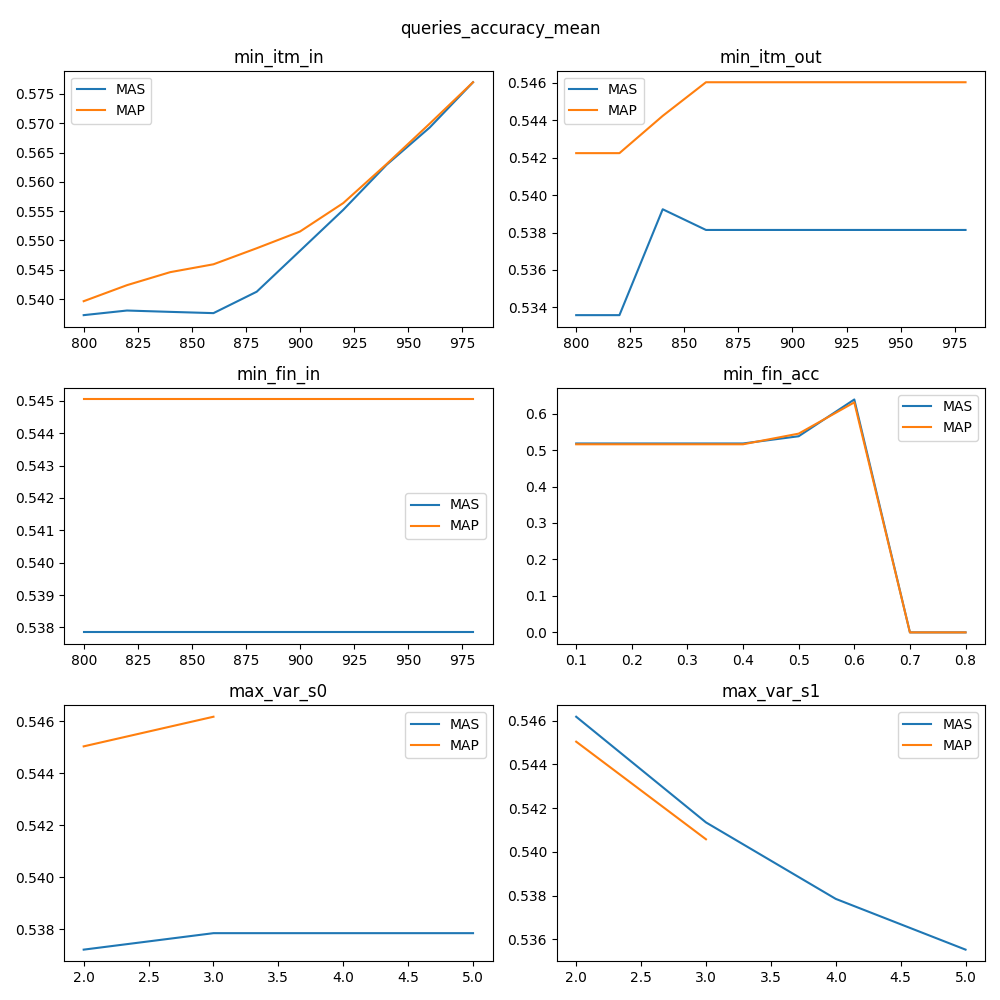
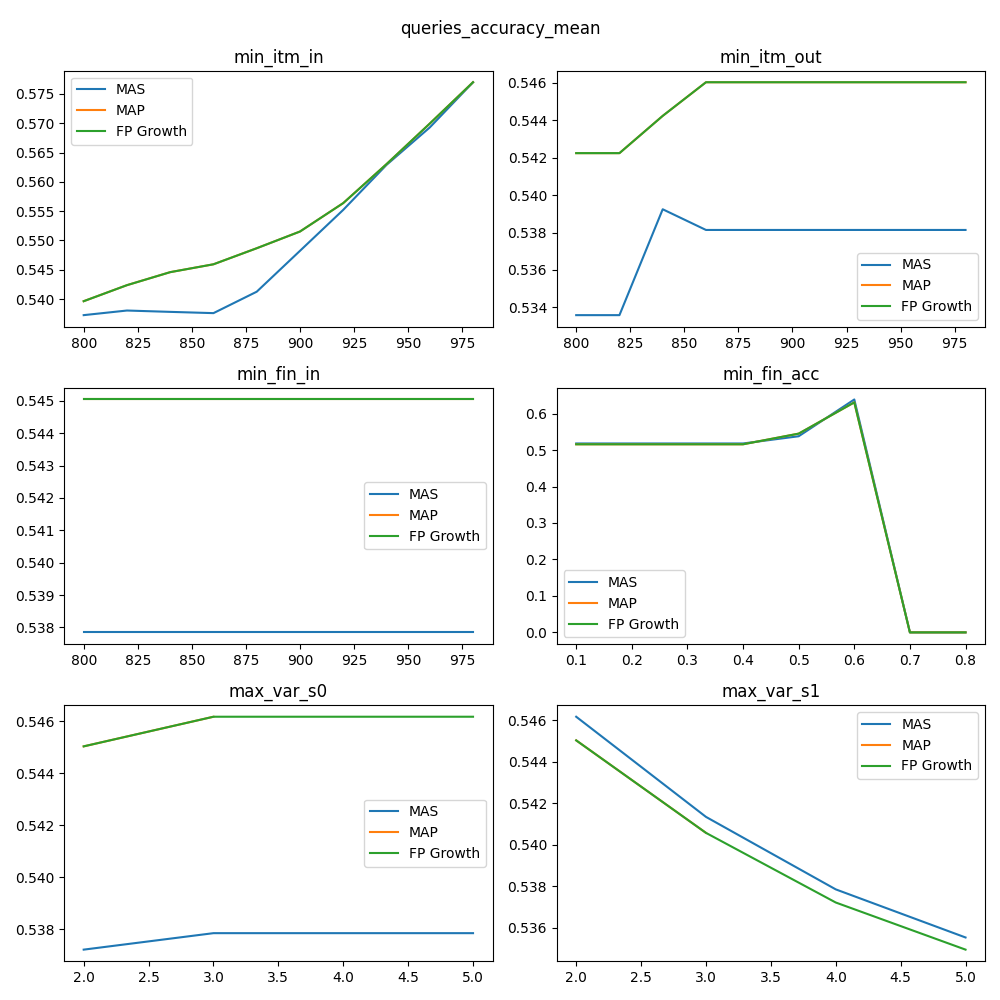
- Added FP-Growth data and plots

diff --git a/thesis-playground/plotting.py b/thesis-playground/plotting.py
@@ -26,23 +26,29 @@ def plot_group(target_metric):
     plt.suptitle(target_metric)
     plot_simple(min_itm_in_mas_data, 'min_itm_in', target_metric, axes[0][0], 'MAS')
     plot_simple(min_itm_in_map_data, 'min_itm_in', target_metric, axes[0][0], 'MAP')
+    plot_simple(min_itm_in_fp_growth_data, 'min_itm_in', target_metric, axes[0][0], 'FP Growth')
 
     plot_simple(min_itm_out_mas_data, 'min_itm_out', target_metric, axes[0][1], 'MAS')
     plot_simple(min_itm_out_map_data, 'min_itm_out', target_metric, axes[0][1], 'MAP')
+    plot_simple(min_itm_out_fp_growth_data, 'min_itm_out', target_metric, axes[0][1], 'FP Growth')
 
     plot_simple(min_fin_in_mas_data, 'min_fin_in', target_metric, axes[1][0], 'MAS')
     plot_simple(min_fin_in_map_data, 'min_fin_in', target_metric, axes[1][0], 'MAP')
+    plot_simple(min_fin_in_fp_growth_data, 'min_fin_in', target_metric, axes[1][0], 'FP Growth')
 
     # plot_simple(min_fin_out_mas_data, 'min_fin_out', target_metric, axes[1][1], 'MAS')
 
     plot_simple(min_fin_acc_mas_data, 'min_fin_acc', target_metric, axes[1][1], 'MAS')
     plot_simple(min_fin_acc_map_data, 'min_fin_acc', target_metric, axes[1][1], 'MAP')
+    plot_simple(min_fin_acc_fp_growth_data, 'min_fin_acc', target_metric, axes[1][1], 'FP Growth')
 
     plot_simple(max_var_s0_mas_data, 'max_var_s0', target_metric, axes[2][0], 'MAS')
     plot_simple(max_var_s0_map_data, 'max_var_s0', target_metric, axes[2][0], 'MAP')
+    plot_simple(max_var_s0_fp_growth_data, 'max_var_s0', target_metric, axes[2][0], 'FP Growth')
 
     plot_simple(max_var_s1_mas_data, 'max_var_s1', target_metric, axes[2][1], 'MAS')
     plot_simple(max_var_s1_map_data, 'max_var_s1', target_metric, axes[2][1], 'MAP')
+    plot_simple(max_var_s1_fp_growth_data, 'max_var_s1', target_metric, axes[2][1], 'FP Growth')
 
     plt.tight_layout()
     plt.savefig('./plots-output/' + target_metric + '.png')
@@ -65,6 +71,14 @@ min_fin_in_map_data = map_data[20:30]
 min_fin_acc_map_data = map_data[30:38]
 max_var_s0_map_data = map_data[38:40]
 max_var_s1_map_data = map_data[40:42]
+
+fp_growth_data = np.genfromtxt('./data/FP-Growth-report.csv', delimiter=',', names=True)
+min_itm_in_fp_growth_data = fp_growth_data[0:10]
+min_itm_out_fp_growth_data = fp_growth_data[10:20]
+min_fin_in_fp_growth_data = fp_growth_data[20:30]
+min_fin_acc_fp_growth_data = fp_growth_data[30:38]
+max_var_s0_fp_growth_data = fp_growth_data[38:42]
+max_var_s1_fp_growth_data = fp_growth_data[42:46]
 
 target_metrics = [
     "candstore_length",
